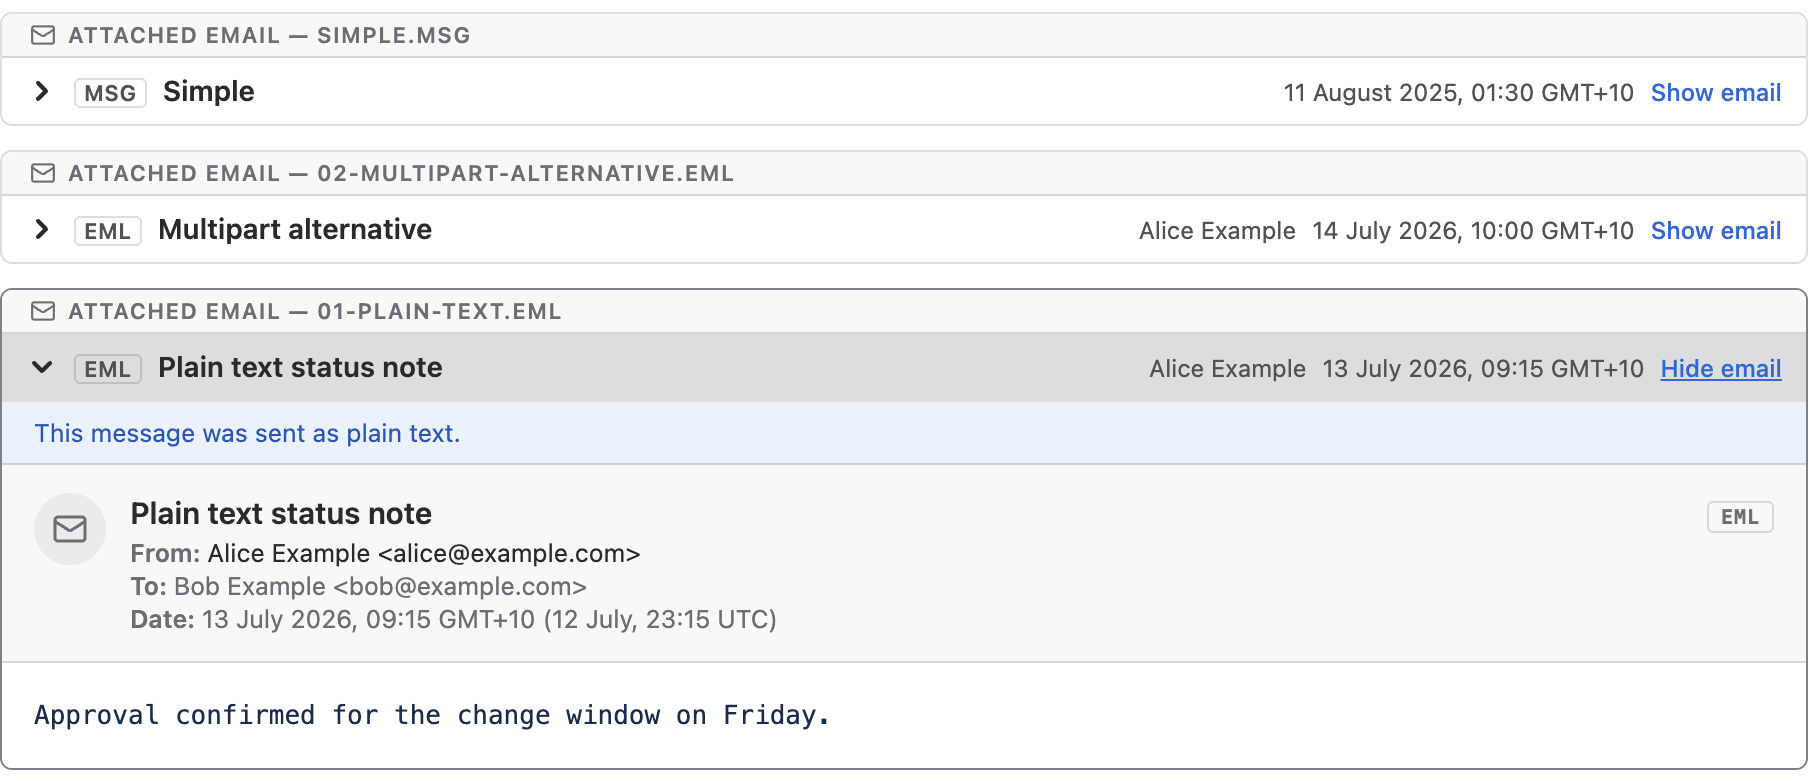
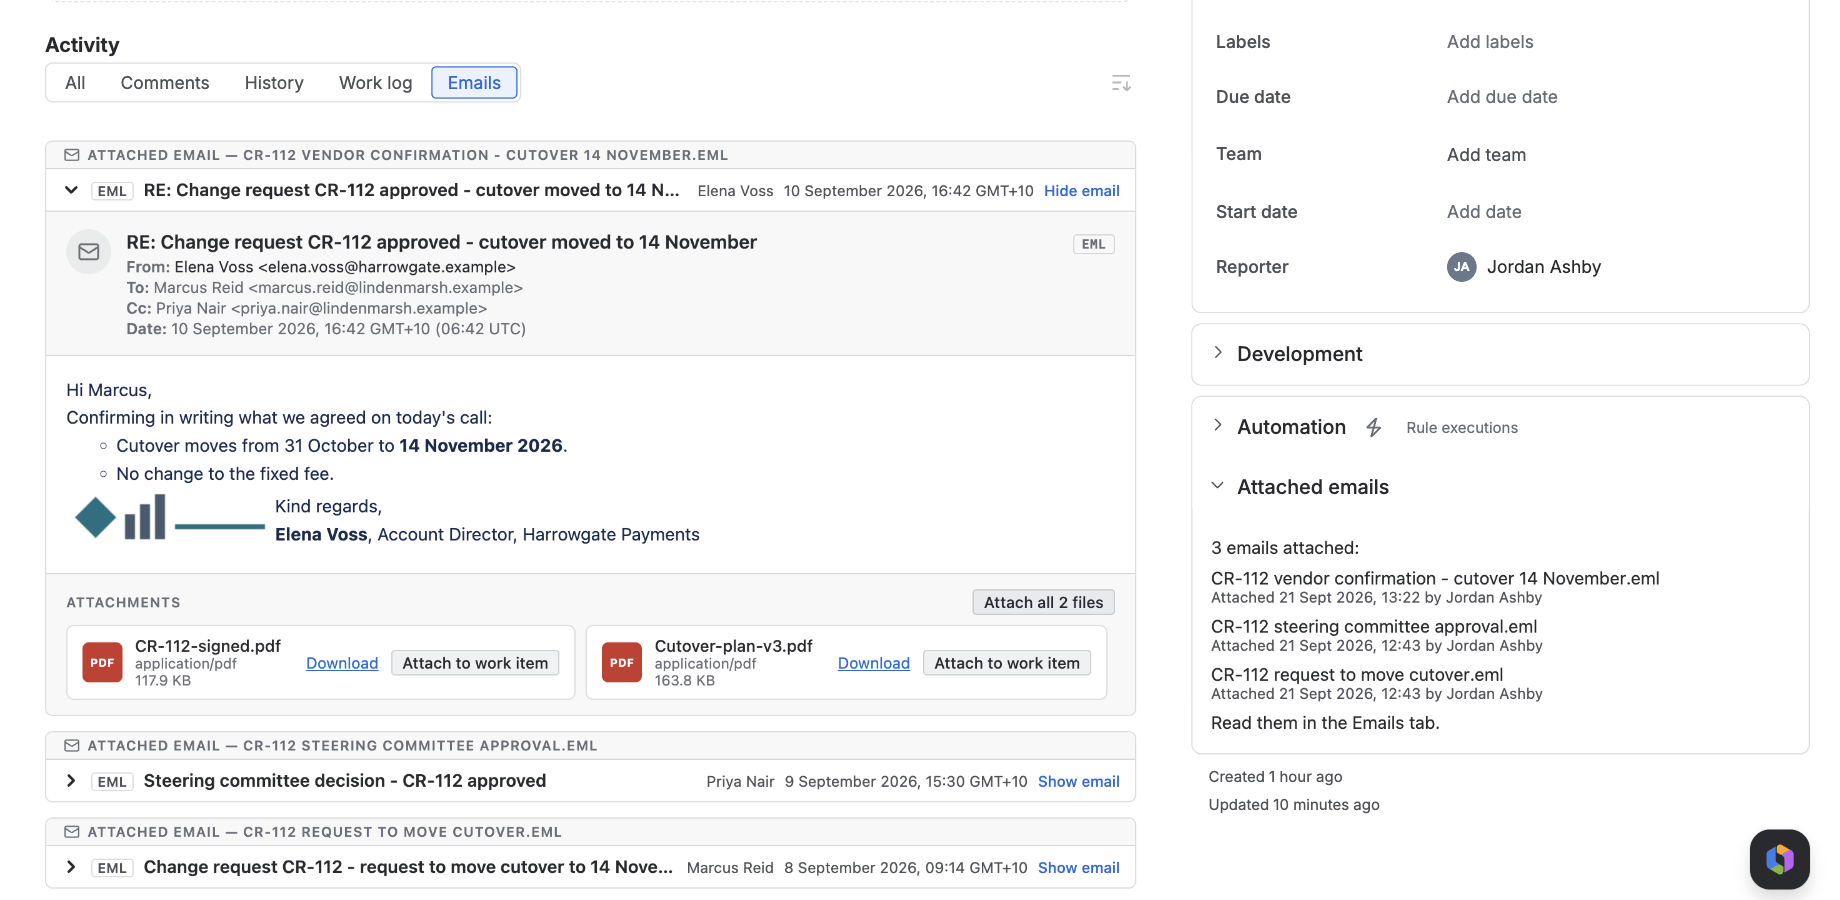
email-viewer-jira guide: image aspect ratio fixed; Emails-tab and sidebar images replaced with the issue-context re-takes

diff --git a/apps/email-viewer-jira/index.html b/apps/email-viewer-jira/index.html
@@ -9,7 +9,7 @@ description: "Renders the .msg and .eml files attached to a Jira issue as email 
   <div class="prose">
     <style>
       .prose figure.shot { margin: 1.6rem 0; }
-      .prose figure.shot img { width: 100%; display: block; border: 1px solid #E4EAF1; border-radius: 12px; background: #FFFFFF; }
+      .prose figure.shot img { width: 100%; height: auto; display: block; border: 1px solid #E4EAF1; border-radius: 12px; background: #FFFFFF; }
       .prose figure.shot figcaption { font-size: 0.85rem; color: #5C6B7E; margin-top: 0.5rem; text-align: center; }
     </style>
     <h1>MSG/EML Email Viewer for Jira</h1>
@@ -22,7 +22,7 @@ description: "Renders the .msg and .eml files attached to a Jira issue as email 
 
 
     <figure class="shot">
-      <img src="/apps/email-viewer-jira/guide-emails-tab.png" alt="The Emails tab on a Jira issue showing three attached emails: the first expanded as a full email card with subject, sender, recipients, date and body, and two more collapsed to single header rows ending in Show email." width="1808" height="784" loading="lazy">
+      <img src="/apps/email-viewer-jira/guide-emails-tab.png" alt="The Emails tab on a Jira issue showing three attached emails: the first expanded as a full email card with subject, sender, recipients, date and body, and two more collapsed to single header rows ending in Show email. Beside the tab, the issue's right-hand column shows its detail fields and the expanded Attached emails group." width="1840" height="900" loading="lazy">
       <figcaption>The Emails tab on an issue with three attached emails: one expanded as a full card, two collapsed to header rows.</figcaption>
     </figure>
 
@@ -39,7 +39,7 @@ description: "Renders the .msg and .eml files attached to a Jira issue as email 
     <p>The attached date is formatted in the locale and time zone the Forge context supplies. The context's time zone follows your browser and its locale follows your Jira profile, and Jira's own Attachments panel also follows the browser's zone, so the sidebar and the panel agree on the instant and the zone and differ only in format: 24-hour for an <code>en_GB</code> profile, where Jira's panel prints a 12-hour time.</p>
 
     <figure class="shot">
-      <img src="/apps/email-viewer-jira/guide-sidebar-index.png" alt="The expanded Attached emails group in the sidebar of a Jira issue, reading &quot;3 emails attached:&quot; above three rows that each name an email file and the date and person who attached it, and &quot;Read them in the Emails tab.&quot; beneath." width="974" height="314" loading="lazy">
+      <img src="/apps/email-viewer-jira/guide-sidebar-index.png" alt="The expanded Attached emails group in the sidebar of a Jira issue, reading &quot;3 emails attached:&quot; above three rows that each name an email file and the date and person who attached it, and &quot;Read them in the Emails tab.&quot; beneath. To its left, the Emails tab shows the first of those emails rendered as a card with two attachment tiles." width="1840" height="900" loading="lazy">
       <figcaption>The expanded Attached emails group: the count line, one row per attached email, and the pointer to the Emails tab.</figcaption>
     </figure>
 
